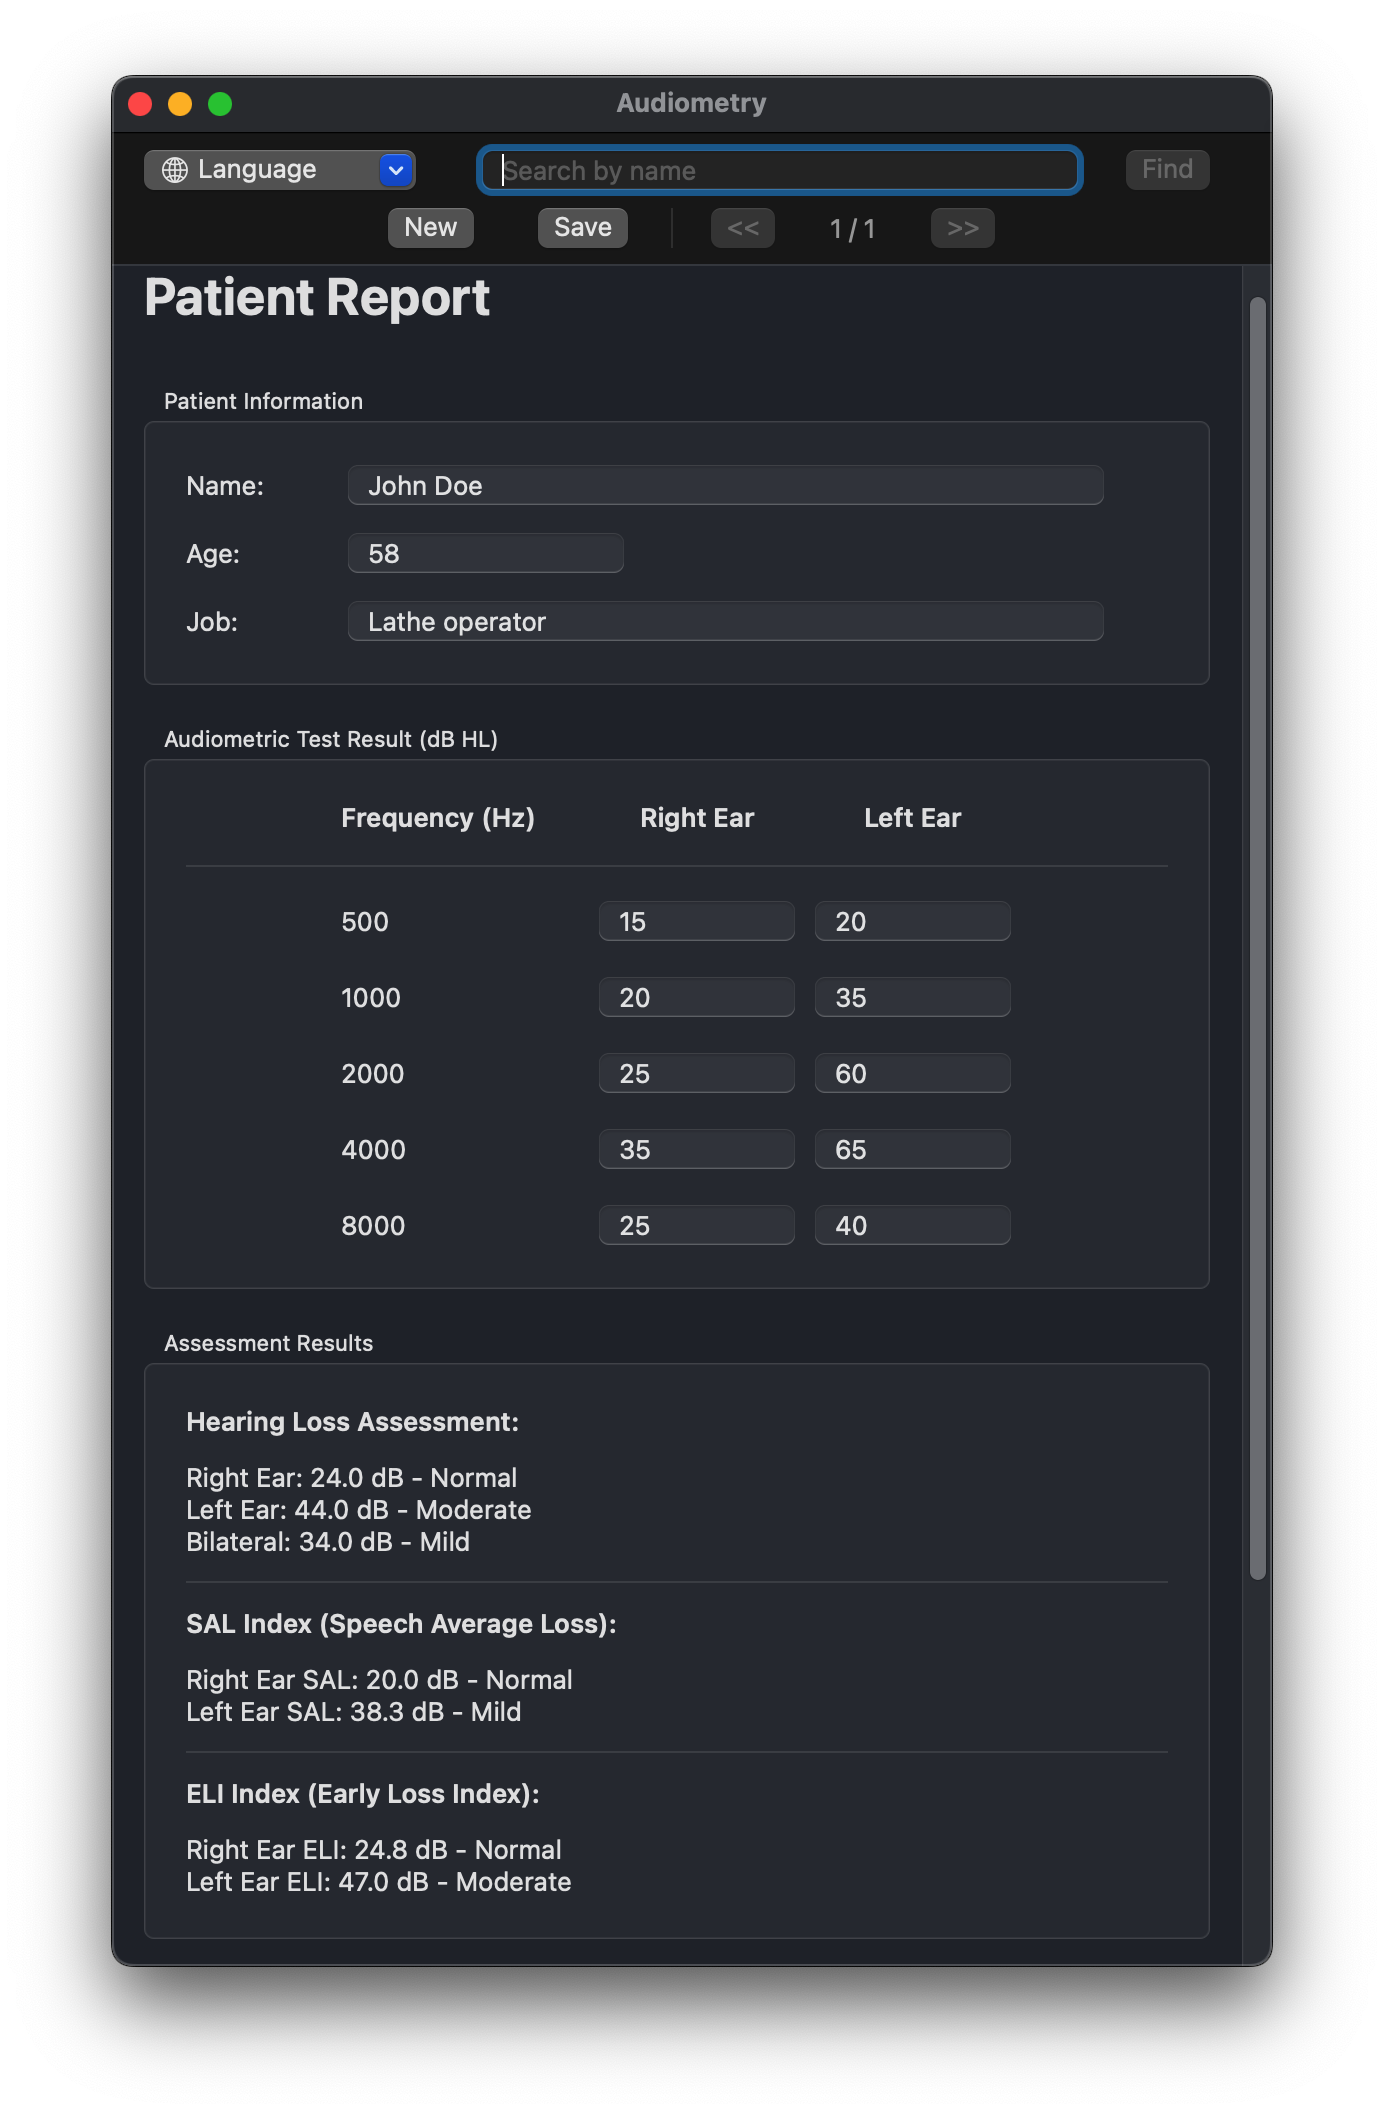
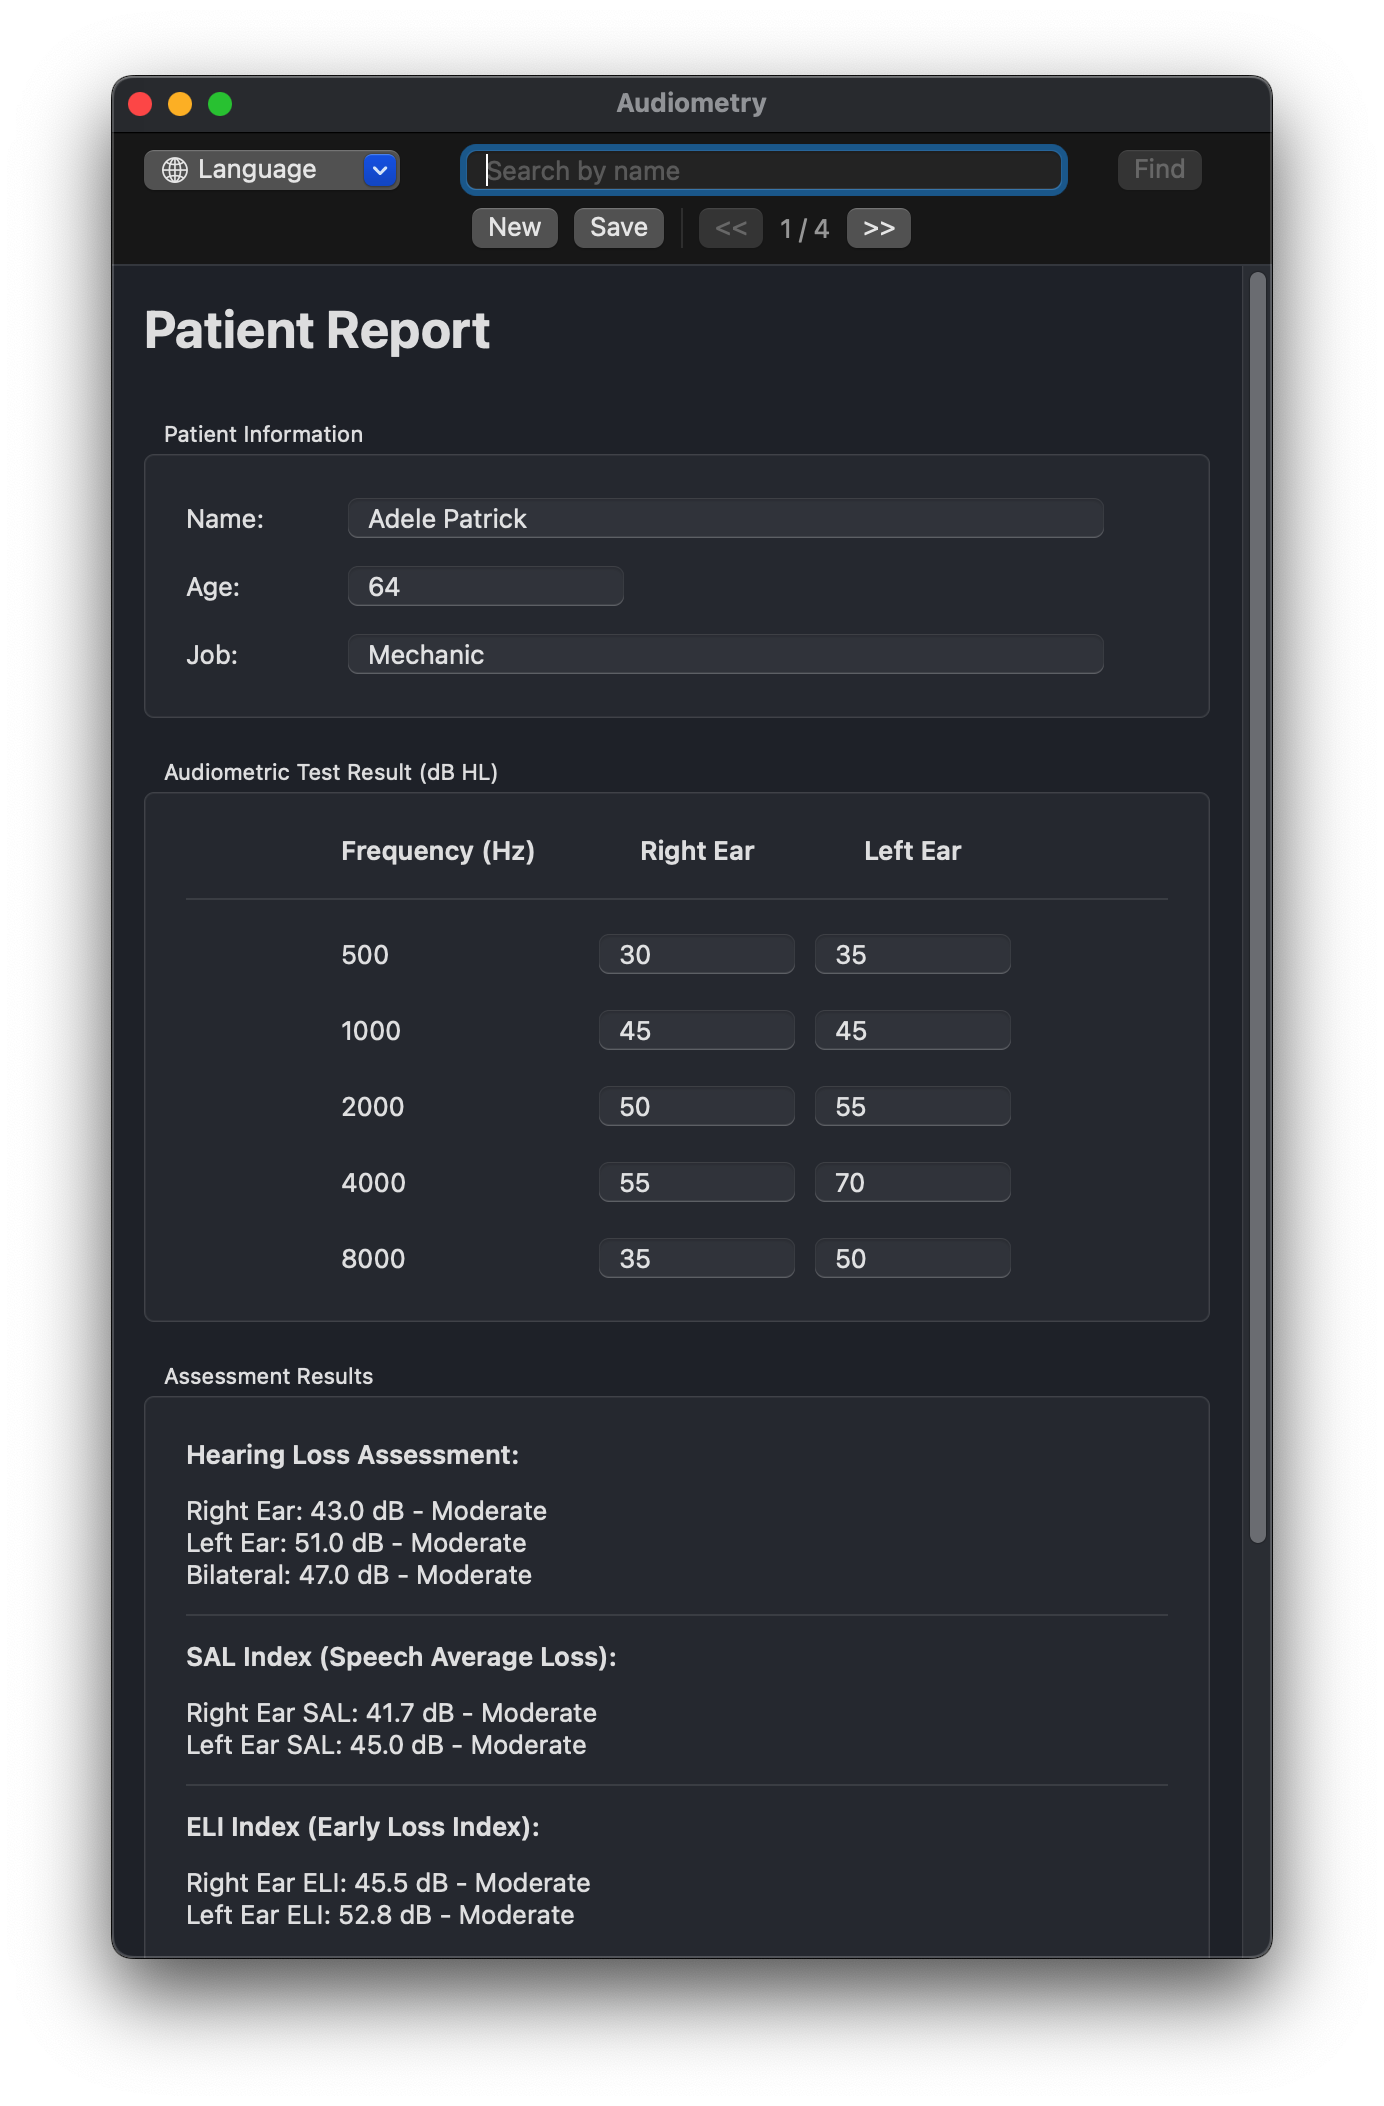
Update main window image and README

diff --git a/README.md b/README.md
@@ -6,7 +6,7 @@
 
 ## App for macOS 13+
 
-<img src="Images/Main-window-light.png" width="600px">
+<img src="Images/Main-window.png" width="640px">
 
 - Xcode 15.2 project
 - App runs on macOS13+.
